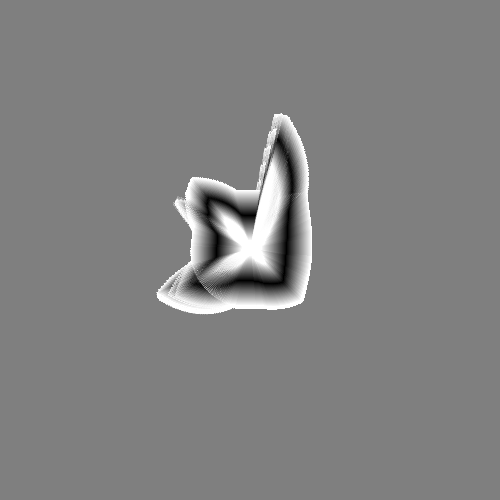
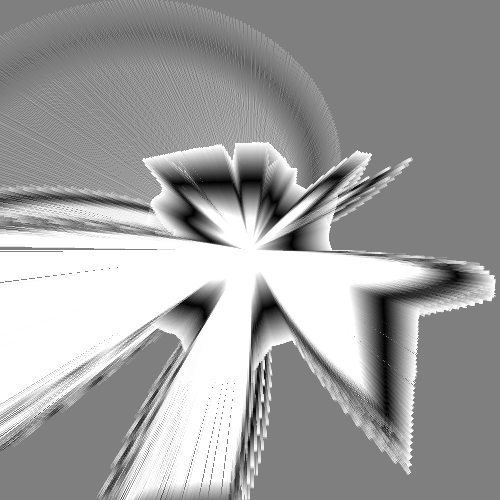
IR_triggeredlidar_with_SLAM and IR_test

diff --git a/Lidar/IR_LidarMapp_test.py b/Lidar/IR_LidarMapp_test.py
@@ -1,0 +1,126 @@
+import time
+import numpy as np
+import matplotlib.pyplot as plt
+import gpiod
+from breezyslam.algorithms import RMHC_SLAM
+from breezyslam.sensors import RPLidarA1 as LaserModel
+from rplidar import RPLidar, RPLidarException
+
+# ---------- Settings ----------
+PORT = '/dev/ttyUSB0'
+HOLD_S = 10                  # keep mapping this long after the last IR detection
+MAP_SIZE_PIXELS = 500
+MAP_SIZE_METERS = 3          # your tuned small-room value
+MIN_SAMPLES = 80
+MAX_DIST_MM = 3000
+MIN_DIST_MM = 200
+IR_ACTIVE_VALUE = 0          # change to 1 if your module is reversed
+
+# ---------- IR sensor (gpiod) ----------
+ir_line = gpiod.find_line("GPIO17")
+ir_line.request(consumer="ir_lidar_slam", type=gpiod.LINE_REQ_DIR_IN)
+
+def ir_triggered():
+    return ir_line.get_value() == IR_ACTIVE_VALUE
+
+# ---------- SLAM + live map ----------
+slam = RMHC_SLAM(LaserModel(), MAP_SIZE_PIXELS, MAP_SIZE_METERS,
+                 map_quality=50, hole_width_mm=300, random_seed=9999)
+mapbytes = bytearray(MAP_SIZE_PIXELS * MAP_SIZE_PIXELS)
+
+plt.ion()
+fig, ax = plt.subplots()
+img = ax.imshow(np.zeros((MAP_SIZE_PIXELS, MAP_SIZE_PIXELS)),
+                cmap='gray', vmin=0, vmax=255)
+
+def refresh_map():
+    slam.getmap(mapbytes)
+    img.set_data(np.reshape(np.frombuffer(mapbytes, dtype=np.uint8),
+                            (MAP_SIZE_PIXELS, MAP_SIZE_PIXELS)))
+    plt.pause(0.001)
+
+def save_map():
+    slam.getmap(mapbytes)
+    name = time.strftime("map_%Y%m%d_%H%M%S.png")
+    plt.imsave(name, np.reshape(np.frombuffer(mapbytes, dtype=np.uint8),
+                                (MAP_SIZE_PIXELS, MAP_SIZE_PIXELS)), cmap='gray')
+    print("Saved", name)
+
+# ---------- Lidar ----------
+def open_lidar():
+    l = RPLidar(PORT, timeout=3)
+    l.stop()
+    time.sleep(0.5)
+    l.reset()
+    time.sleep(1.5)
+    l.clean_input()
+    return l
+
+lidar = open_lidar()
+lidar.stop_motor()
+
+def run_session():
+    print("IR detected: lidar ON, mapping")
+    lidar.start_motor()
+    time.sleep(2)                       # let the motor reach full speed
+    lidar.clean_input()
+    last_seen = time.time()
+    count = 0
+    for scan in lidar.iter_scans(max_buf_meas=5000):
+        if ir_triggered():
+            last_seen = time.time()
+
+        distances, angles = [], []
+        for quality, angle, dist in scan:
+            if quality > 0 and MIN_DIST_MM < dist < MAX_DIST_MM:
+                distances.append(dist)
+                angles.append(angle)
+
+        if len(distances) > MIN_SAMPLES:
+            slam.update(distances, scan_angles_degrees=angles)
+
+        count += 1
+        if count % 5 == 0:
+            refresh_map()
+
+        if time.time() - last_seen > HOLD_S:
+            break
+
+    lidar.stop()
+    lidar.stop_motor()
+    refresh_map()
+    save_map()
+    print("No IR for", HOLD_S, "s: lidar OFF")
+
+# ---------- Main loop ----------
+print("Waiting for IR trigger...")
+try:
+    while True:
+        if ir_triggered():
+            try:
+                run_session()
+            except RPLidarException as e:
+                print("Recovering:", e)
+                try:
+                    lidar.stop_motor()
+                    lidar.disconnect()
+                except Exception:
+                    pass
+                time.sleep(1)
+                lidar = open_lidar()
+                lidar.stop_motor()
+        plt.pause(0.05)                 # keeps the map window responsive while idle
+except KeyboardInterrupt:
+    pass
+finally:
+    try:
+        save_map()
+    except Exception:
+        pass
+    ir_line.release()
+    try:
+        lidar.stop()
+        lidar.stop_motor()
+        lidar.disconnect()
+    except Exception:
+        pass

diff --git a/Lidar/IR_Lidar_test.py b/Lidar/IR_Lidar_test.py
@@ -1,0 +1,59 @@
+import time
+import gpiod
+from rplidar import RPLidar, RPLidarException
+
+PORT = '/dev/ttyUSB0'
+HOLD_S = 10                      # keep the lidar on this long after the last detection
+
+ir_line = gpiod.find_line("GPIO17")
+ir_line.request(consumer="ir_lidar", type=gpiod.LINE_REQ_DIR_IN)
+
+def ir_triggered():
+    return ir_line.get_value() == 0      # change to == 1 if your module is reversed
+
+def process_scan(scan):
+    # Replace with your BreezySLAM update later
+    print(len(scan), "points")
+
+lidar = RPLidar(PORT, timeout=3)
+lidar.stop_motor()
+print("Waiting for IR trigger...")
+
+def run_session():
+    print("IR detected: lidar ON")
+    lidar.start_motor()
+    time.sleep(2)
+    lidar.clean_input()
+    last_seen = time.time()
+    for scan in lidar.iter_scans(max_buf_meas=5000):
+        if ir_triggered():
+            last_seen = time.time()
+        process_scan(scan)
+        if time.time() - last_seen > HOLD_S:
+            break
+    lidar.stop()
+    lidar.stop_motor()
+    print("No IR for", HOLD_S, "s: lidar OFF")
+
+try:
+    while True:
+        if ir_triggered():
+            try:
+                run_session()
+            except RPLidarException as e:
+                print("Recovering:", e)
+                lidar.stop()
+                lidar.reset()
+                time.sleep(1.5)
+                lidar.clean_input()
+        time.sleep(0.05)
+except KeyboardInterrupt:
+    pass
+finally:
+    ir_line.release()
+    try:
+        lidar.stop()
+        lidar.stop_motor()
+        lidar.disconnect()
+    except Exception:
+        pass

diff --git a/Arudino_Pi_ConnectionTest.py b/Arudino_Pi_ConnectionTest.py
@@ -1,0 +1,7 @@
+import serial, time
+
+ser = serial.Serial('/dev/ttyACM0', 115200, timeout=1)
+time.sleep(2)  # the Uno resets when the port opens
+
+ser.write(b"hello\n")
+print(ser.readline().decode().strip())

diff --git a/Arudino_IR_pi.py b/Arudino_IR_pi.py
@@ -1,0 +1,9 @@
+import serial, time
+
+ser = serial.Serial('/dev/ttyACM1', 115200, timeout=1)
+time.sleep(2)
+
+while True:
+    line = ser.readline().decode().strip()
+    if line:
+        print("IR:", line)
